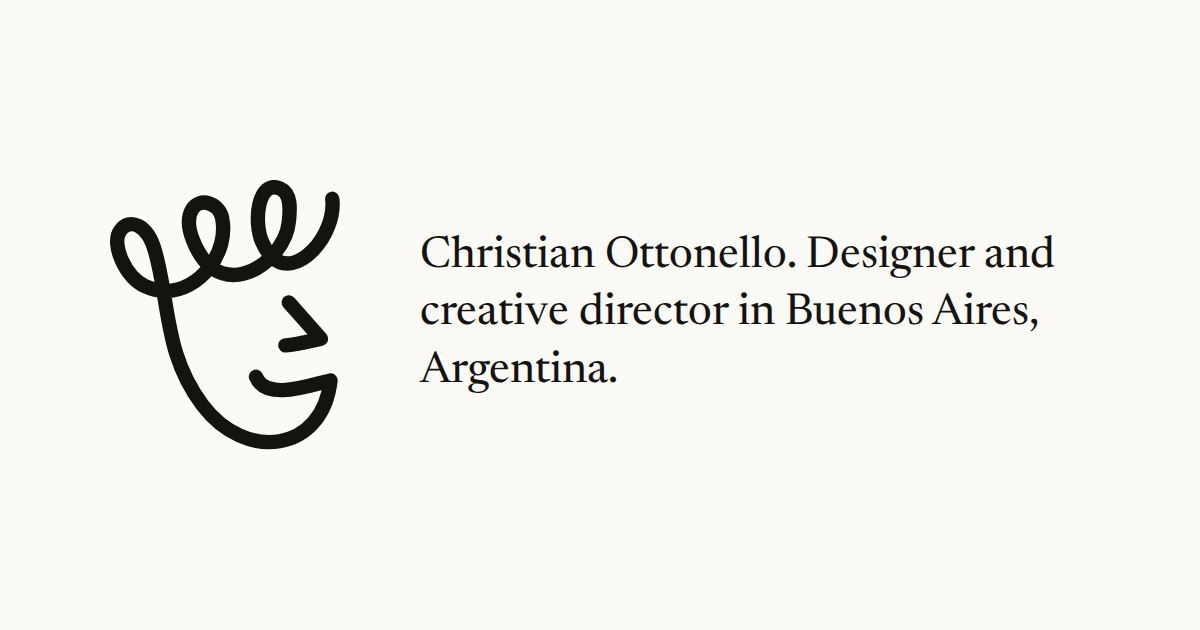
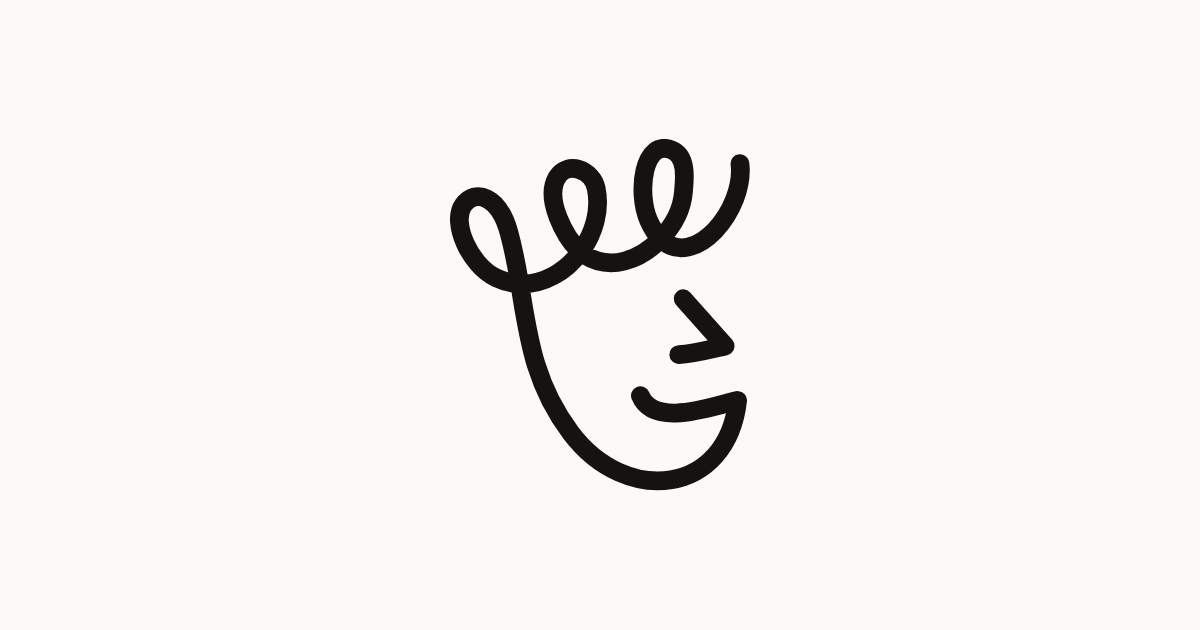
Add files via upload

Changed region(s): [[0.3392, 0.2111, 0.8942, 0.7841], [0.0925, 0.2714, 0.3083, 0.7238]]

diff --git a/src/styles/global.css b/src/styles/global.css
@@ -1,15 +1,8 @@
 @font-face {
-  font-family: "Newsreader";
-  src: url("/fonts/newsreader.woff2") format("woff2");
-  font-weight: 200 800;
+  font-family: "Instrument Sans";
+  src: url("/fonts/instrument-sans.woff2") format("woff2");
+  font-weight: 400 700;
   font-style: normal;
-  font-display: swap;
-}
-@font-face {
-  font-family: "Newsreader";
-  src: url("/fonts/newsreader-italic.woff2") format("woff2");
-  font-weight: 200 800;
-  font-style: italic;
   font-display: swap;
 }
 
@@ -19,7 +12,7 @@
   --muted: #6e6a62;
   --rule: #b8b2a6;
   --dots: #9f9a90;
-  --measure: 30rem;
+  --measure: 36rem;
 }
 
 @media (prefers-color-scheme: dark) {
@@ -35,9 +28,9 @@
 * { box-sizing: border-box; }
 
 html {
-  font-family: "Newsreader", Georgia, "Times New Roman", serif;
-  font-size: 21px;
-  line-height: 1.6;
+  font-family: "Instrument Sans", system-ui, -apple-system, "Segoe UI", Helvetica, Arial, sans-serif;
+  font-size: clamp(17px, 1.05vw + 11px, 21px);
+  line-height: 1.7;
   color: var(--ink);
   background: var(--paper);
   -webkit-font-smoothing: antialiased;
@@ -47,31 +40,36 @@ html {
 body {
   margin: 0;
   min-height: 100svh;
+  overflow-x: hidden;
 }
 
-main {
-  max-width: var(--measure);
+.page {
+  max-width: 68rem;
   margin: 0 auto;
-  padding: 7rem 1.25rem 6rem;
+  padding: 5rem 2rem 5rem;
+  display: grid;
+  grid-template-columns: minmax(0, var(--measure)) 1fr;
+  gap: 4rem;
+  align-items: start;
 }
 
 .face {
-  display: block;
-  width: 80px;
-  height: auto;
-  margin: 0 0 2.2rem -3px;
+  width: min(100%, 360px);
+  justify-self: center;
+  margin-top: 0.4rem;
   color: var(--ink);
+  transition: transform 0.7s cubic-bezier(0.2, 0.8, 0.2, 1);
+  transform-origin: 45% 60%;
 }
+.face svg { width: 100%; height: auto; display: block; }
 
-p {
-  margin: 0 0 1.25rem;
-  font-weight: 400;
-}
+p { margin: 0 0 1.4rem; }
 
 p.lead {
-  font-size: 1.18rem;
+  font-size: 1.2rem;
   line-height: 1.45;
-  font-weight: 430;
+  font-weight: 500;
+  margin-bottom: 1.8rem;
 }
 
 a {
@@ -94,14 +92,17 @@ a:focus-visible { outline: 2px solid var(--ink); outline-offset: 3px; border-rad
 ul.links {
   list-style: none;
   padding: 0;
-  margin: 2.2rem 0 0;
+  margin: 2rem 0 0;
   display: flex;
   gap: 1.4rem;
   font-size: 0.92rem;
 }
 
-@media (max-width: 600px) {
-  html { font-size: 19px; }
-  main { padding: 4.5rem 1.25rem 4rem; }
-  .face { width: 68px; }
+@media (max-width: 900px) {
+  .page { grid-template-columns: 1fr; gap: 0; padding: 3rem 1.25rem 3rem; }
+  .face { width: 150px; justify-self: start; margin: 0 0 1.6rem -4px; transition: none; }
+}
+
+@media (prefers-reduced-motion: reduce) {
+  .face { transition: none; }
 }
